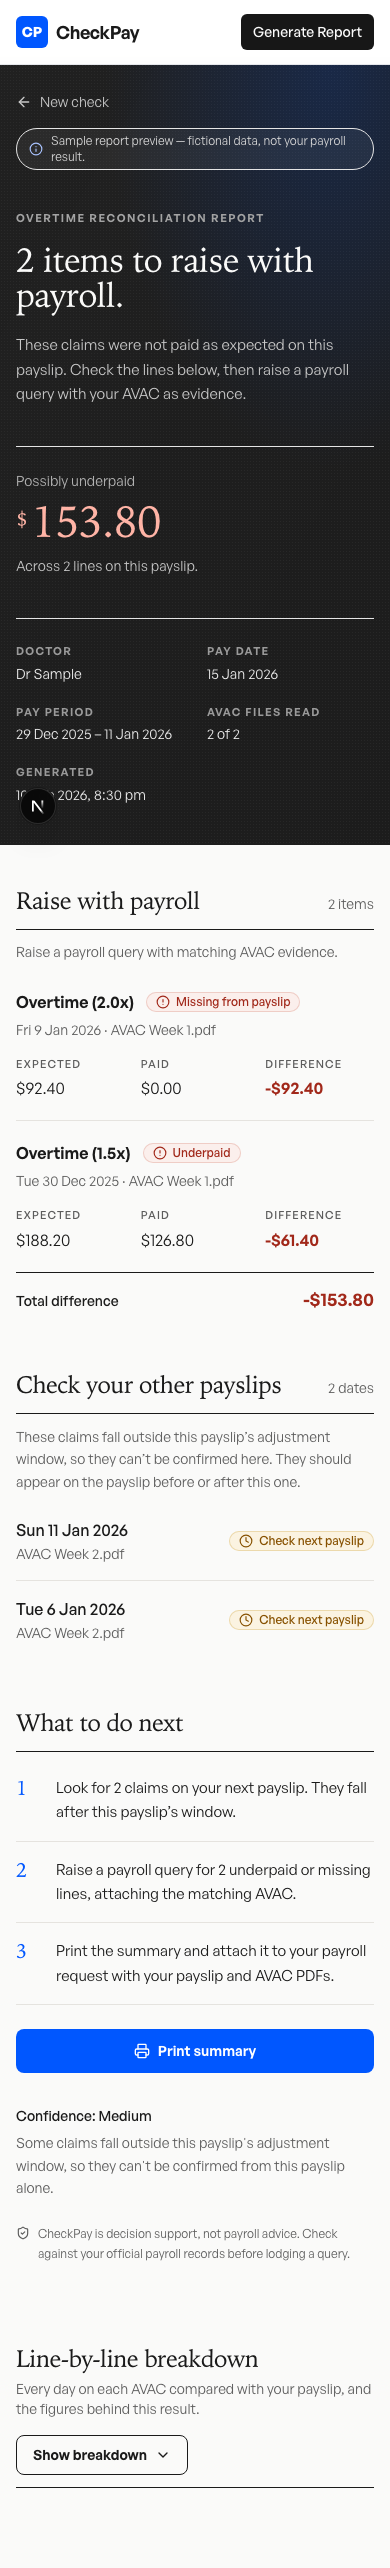
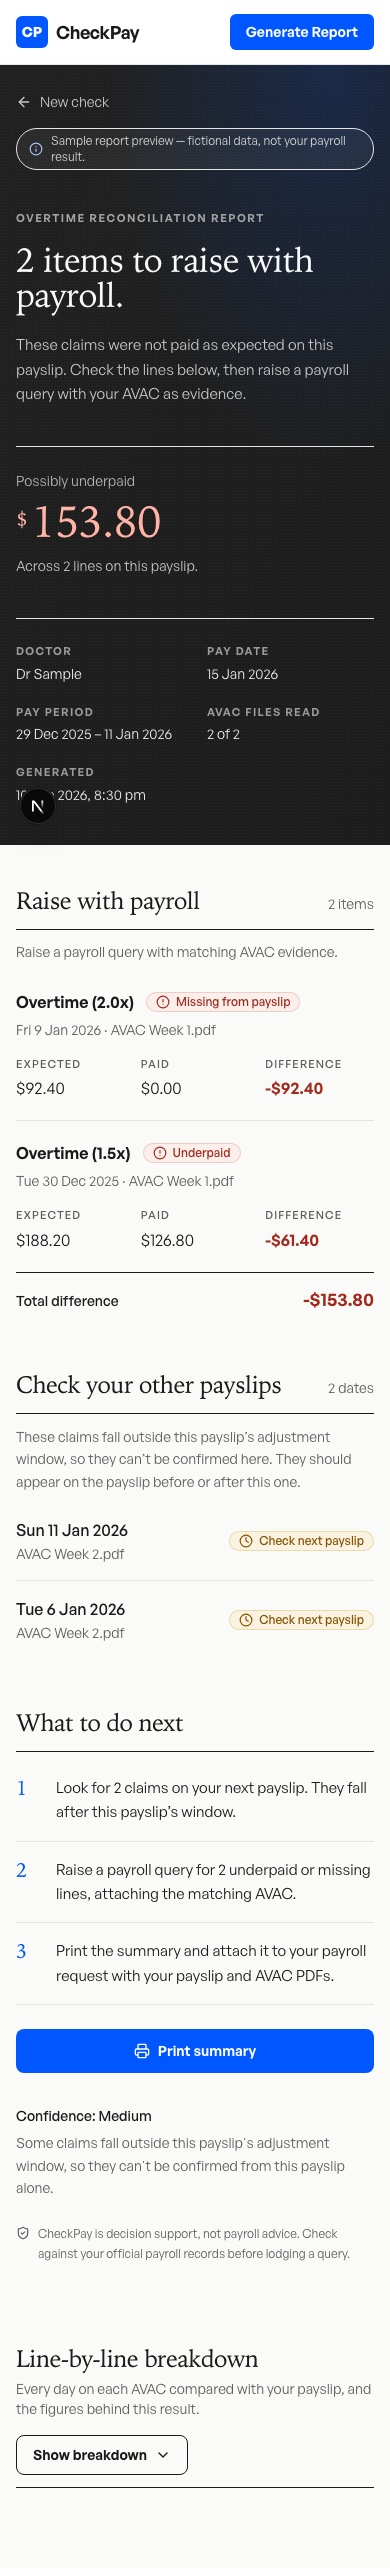
feat(report): brand-blue header CTA and stacked mobile day breakdown
- App and landing header primary buttons share the brand blue treatment used
  by the report's Print summary button.
- Per-day breakdown re-flows into stacked grid rows below md (no horizontal
  scroll at 390px), keeping ARIA table roles, keyboard expand buttons and
  icon+label status pills; unchanged table from md up.
- Refresh after screenshots; add after-mobile-detail.png.

Changed region(s): [[0.5846, 0.0, 0.9538, 0.0312]]

diff --git a/app/(app)/check/report/[id]/_components/ReportPerAvacDetails.tsx b/app/(app)/check/report/[id]/_components/ReportPerAvacDetails.tsx
@@ -28,7 +28,9 @@ interface ReportPerAvacDetailsProps {
 }
 
 const TH = 'px-3 py-2.5 text-left text-[11px] font-semibold uppercase tracking-[0.1em] text-[var(--cp-text-secondary)]'
-const TD = 'px-3 py-3 align-middle'
+const TD = 'block md:table-cell md:px-3 md:py-3 md:align-middle'
+// Mobile: 4-column grid (expand button + 3 value columns); rows 1–3 hold date, status, amounts.
+const ROW = 'grid grid-cols-[2rem_repeat(3,minmax(0,1fr))] gap-x-3 gap-y-2 px-3 py-3 md:table-row md:p-0'
 
 function differenceClass(value: number | undefined): string {
   const amount = toSafeNumber(value)
@@ -58,25 +60,27 @@ function AvacDayBreakdown({ summary }: { summary: AvacDetailSummary }) {
   }
 
   return (
-    <div className="overflow-x-auto rounded-lg border border-[var(--cp-border)] bg-white">
-      <table className="w-full min-w-[720px] text-sm">
+    // Below md the table re-flows into stacked grid rows (explicit ARIA roles keep table semantics
+    // when display changes); from md up it is a normal table.
+    <div className="rounded-lg border border-[var(--cp-border)] bg-white md:overflow-x-auto">
+      <table role="table" className="block w-full text-sm md:table md:min-w-[680px]">
         <caption className="sr-only">
           {days.length} day{days.length === 1 ? '' : 's'} on {summary.avacName}
         </caption>
-        <thead className="border-b border-[var(--cp-border)] bg-[var(--cp-bg-secondary)]">
-          <tr>
-            <th scope="col" className={cn(TH, 'w-10')}>
+        <thead role="rowgroup" className="hidden border-b border-[var(--cp-border)] bg-[var(--cp-bg-secondary)] md:table-header-group">
+          <tr role="row">
+            <th role="columnheader" scope="col" className={cn(TH, 'w-10')}>
               <span className="sr-only">Show lines</span>
             </th>
-            <th scope="col" className={TH}>Date</th>
-            <th scope="col" className={TH}>Day type</th>
-            <th scope="col" className={TH}>Status</th>
-            <th scope="col" className={cn(TH, 'text-right')}>Expected</th>
-            <th scope="col" className={cn(TH, 'text-right')}>Paid</th>
-            <th scope="col" className={cn(TH, 'text-right')}>Difference</th>
+            <th role="columnheader" scope="col" className={TH}>Date</th>
+            <th role="columnheader" scope="col" className={TH}>Day type</th>
+            <th role="columnheader" scope="col" className={TH}>Status</th>
+            <th role="columnheader" scope="col" className={cn(TH, 'text-right')}>Expected</th>
+            <th role="columnheader" scope="col" className={cn(TH, 'text-right')}>Paid</th>
+            <th role="columnheader" scope="col" className={cn(TH, 'text-right')}>Difference</th>
           </tr>
         </thead>
-        <tbody>
+        <tbody role="rowgroup" className="block md:table-row-group">
           {days.map((day, dayIndex) => {
             const rowKey = `${summary.id}-${day.date}-${dayIndex}`
             const isExpanded = expandedDays.has(rowKey)
@@ -93,7 +97,9 @@ function AvacDayBreakdown({ summary }: { summary: AvacDetailSummary }) {
             return (
               <React.Fragment key={rowKey}>
                 <tr
+                  role="row"
                   className={cn(
+                    ROW,
                     'border-b border-[var(--cp-border)] last:border-b-0',
                     isExpandable && 'cursor-pointer hover:bg-[var(--cp-bg-primary)]'
                   )}
@@ -101,7 +107,7 @@ function AvacDayBreakdown({ summary }: { summary: AvacDetailSummary }) {
                   // (its click bubbles here, so it needs no handler of its own).
                   onClick={isExpandable ? () => toggleDay(rowKey) : undefined}
                 >
-                  <td className={cn(TD, 'w-10 pr-0')}>
+                  <td role="cell" className={cn(TD, 'col-start-1 row-start-1 md:w-10 md:pr-0')}>
                     {isExpandable && (
                       <button
                         type="button"
@@ -116,20 +122,30 @@ function AvacDayBreakdown({ summary }: { summary: AvacDetailSummary }) {
                       </button>
                     )}
                   </td>
-                  <td className={cn(TD, 'whitespace-nowrap font-medium text-[var(--cp-text-primary)]')}>{dateLabel}</td>
-                  <td className={cn(TD, 'text-[var(--cp-text-secondary)]')}>{formatDayTypeLabel(day.day_type)}</td>
-                  <td className={TD}>
+                  <td
+                    role="cell"
+                    className={cn(TD, 'col-span-2 col-start-2 row-start-1 self-center whitespace-nowrap font-medium text-[var(--cp-text-primary)]')}
+                  >
+                    {dateLabel}
+                  </td>
+                  <td
+                    role="cell"
+                    className={cn(TD, 'col-start-4 row-start-1 self-center text-right text-[var(--cp-text-secondary)] md:text-left')}
+                  >
+                    {formatDayTypeLabel(day.day_type)}
+                  </td>
+                  <td role="cell" className={cn(TD, 'col-span-3 col-start-2 row-start-2')}>
                     <StatusPill status={displayStatus} />
                   </td>
-                  <td className={cn(TD, 'text-right tabular-nums')}>
+                  <AmountCell label="Expected" className="col-start-2">
                     {isTimingRow ? '—' : formatCurrency(day.expected_total)}
-                  </td>
-                  <td className={cn(TD, 'text-right tabular-nums')}>
+                  </AmountCell>
+                  <AmountCell label="Paid" className="col-start-3">
                     {isTimingRow ? '—' : formatCurrency(day.actual_total)}
-                  </td>
-                  <td className={cn(TD, 'text-right font-medium tabular-nums', !isTimingRow && differenceClass(day.difference))}>
+                  </AmountCell>
+                  <AmountCell label="Difference" className={cn('col-start-4 font-medium', !isTimingRow && differenceClass(day.difference))}>
                     {isTimingRow ? '—' : formatSignedCurrency(day.difference)}
-                  </td>
+                  </AmountCell>
                 </tr>
 
                 {isExpandable &&
@@ -138,25 +154,30 @@ function AvacDayBreakdown({ summary }: { summary: AvacDetailSummary }) {
                     const isTimingItem = isTimingCheckStatus(item.status)
                     return (
                       <tr
+                        role="row"
                         key={`${rowKey}-item-${itemIndex}`}
-                        className="border-b border-[var(--cp-border)] bg-[var(--cp-bg-primary)] text-[13px]"
+                        className={cn(ROW, 'border-b border-[var(--cp-border)] bg-[var(--cp-bg-primary)] text-[13px]')}
                       >
-                        <td />
-                        <td colSpan={2} className={cn(TD, 'pl-6 text-[var(--cp-text-primary)]')}>
+                        <td role="cell" className="hidden md:table-cell" />
+                        <td
+                          role="cell"
+                          colSpan={2}
+                          className={cn(TD, 'col-span-3 col-start-2 row-start-1 text-[var(--cp-text-primary)] md:pl-6')}
+                        >
                           {formatPayTypeLabel(item.pay_type)}
                         </td>
-                        <td className={TD}>
+                        <td role="cell" className={cn(TD, 'col-span-3 col-start-2 row-start-2')}>
                           <StatusPill status={item.status} />
                         </td>
-                        <td className={cn(TD, 'text-right tabular-nums')}>
+                        <AmountCell label="Expected" className="col-start-2">
                           {isTimingItem ? '—' : formatCurrency(item.expected_amount)}
-                        </td>
-                        <td className={cn(TD, 'text-right tabular-nums')}>
+                        </AmountCell>
+                        <AmountCell label="Paid" className="col-start-3">
                           {isTimingItem ? '—' : formatCurrency(item.actual_amount)}
-                        </td>
-                        <td className={cn(TD, 'text-right tabular-nums', !isTimingItem && differenceClass(item.difference))}>
+                        </AmountCell>
+                        <AmountCell label="Difference" className={cn('col-start-4', !isTimingItem && differenceClass(item.difference))}>
                           {isTimingItem ? '—' : formatSignedCurrency(item.difference)}
-                        </td>
+                        </AmountCell>
                       </tr>
                     )
                   })}
@@ -166,6 +187,17 @@ function AvacDayBreakdown({ summary }: { summary: AvacDetailSummary }) {
         </tbody>
       </table>
     </div>
+  )
+}
+
+function AmountCell({ label, className, children }: { label: string; className?: string; children: string }) {
+  return (
+    <td role="cell" className={cn(TD, 'row-start-3 text-left tabular-nums md:text-right', className)}>
+      <span className="block text-[10px] font-medium uppercase tracking-[0.1em] text-[var(--cp-text-secondary)] md:hidden">
+        {label}
+      </span>
+      {children}
+    </td>
   )
 }
 

diff --git a/components/layout/app-header.tsx b/components/layout/app-header.tsx
@@ -62,7 +62,11 @@ export default function AppHeader() {
           {/* Primary app action — hidden when already on /check/new */}
           {!isNewAnalysis && (
             <div className="flex items-center justify-end gap-3">
-              <Button asChild size="sm">
+              <Button
+                asChild
+                size="sm"
+                className="rounded-md bg-[var(--cp-accent)] px-4 font-semibold text-white hover:bg-[var(--cp-accent-hover)] focus-visible:ring-[var(--cp-accent)]"
+              >
                 <Link href="/check/new">Generate Report</Link>
               </Button>
             </div>

diff --git a/components/layout/landing-header.tsx b/components/layout/landing-header.tsx
@@ -63,7 +63,7 @@ export default function LandingHeader() {
           <Button
             asChild
             size="sm"
-            className="h-9 rounded-md bg-[var(--cp-accent)] px-4 text-sm font-semibold text-white transition duration-150 hover:scale-[1.02] hover:bg-[var(--cp-accent-hover)] hover:shadow-[0_10px_20px_rgba(0,87,255,0.25)]"
+            className="h-9 rounded-md bg-[var(--cp-accent)] px-4 text-sm font-semibold text-white hover:bg-[var(--cp-accent-hover)] focus-visible:ring-[var(--cp-accent)]"
           >
             <Link href="/check/new">Start Free Analysis</Link>
           </Button>
